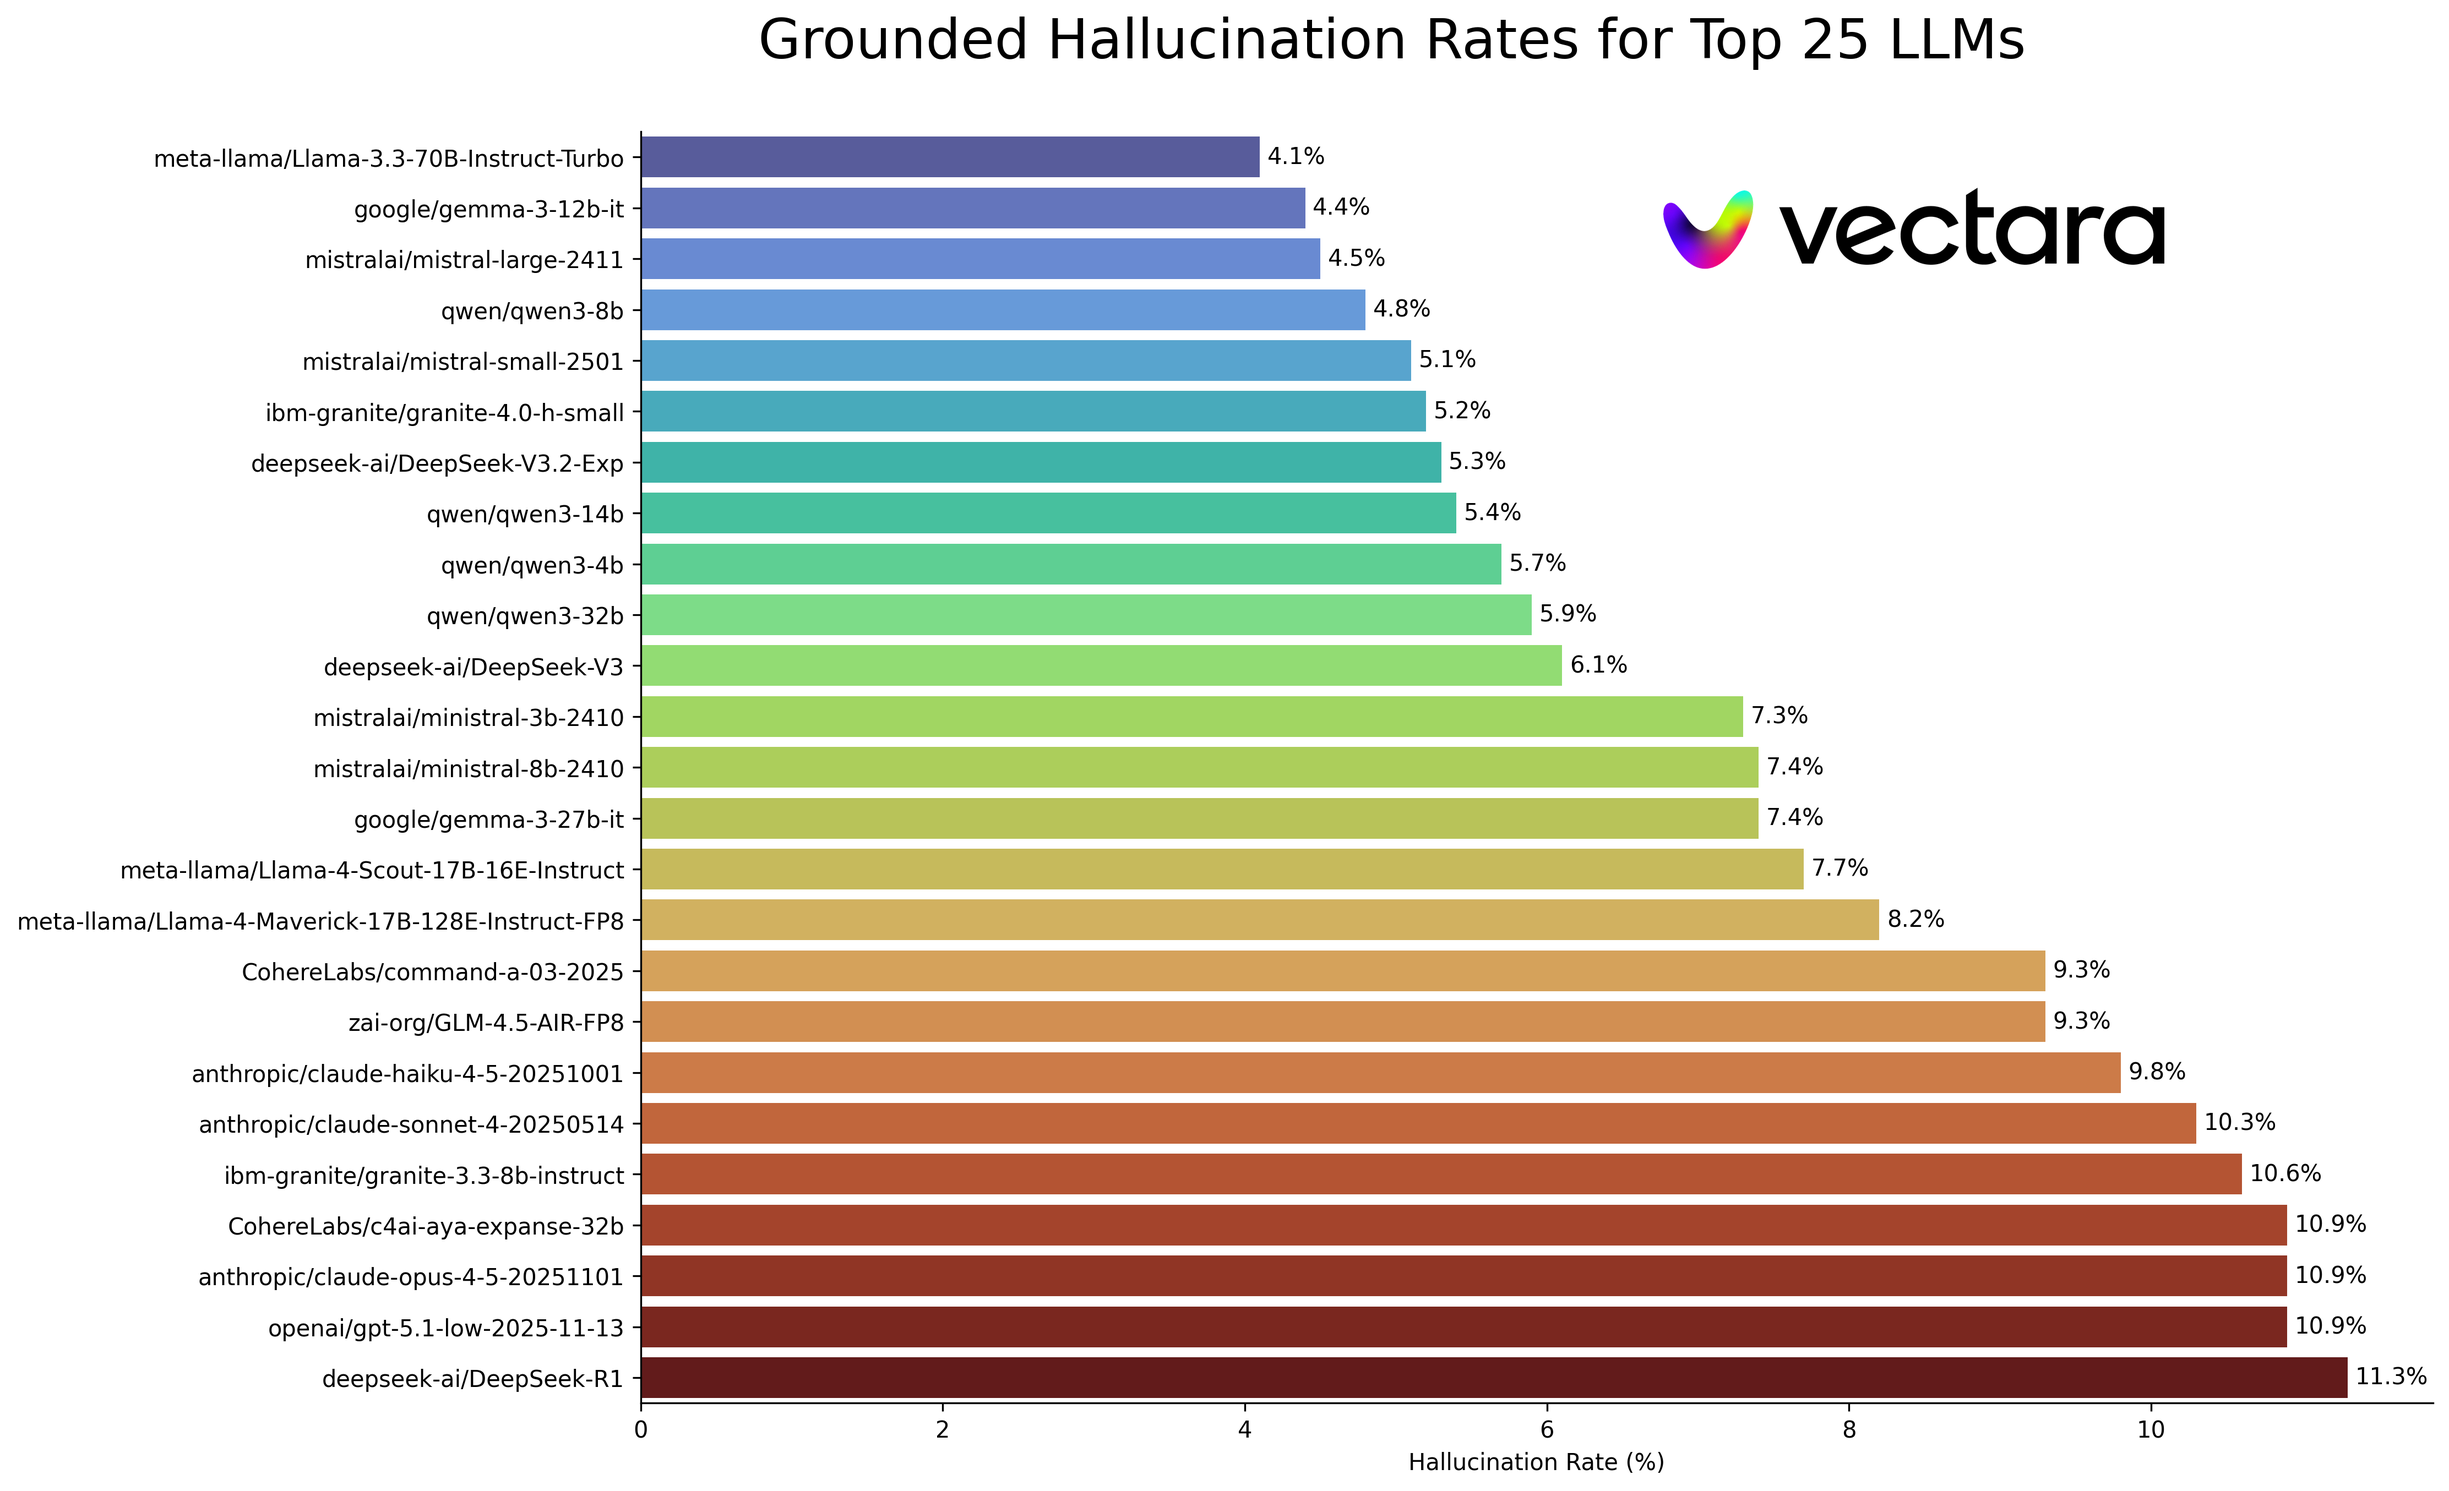
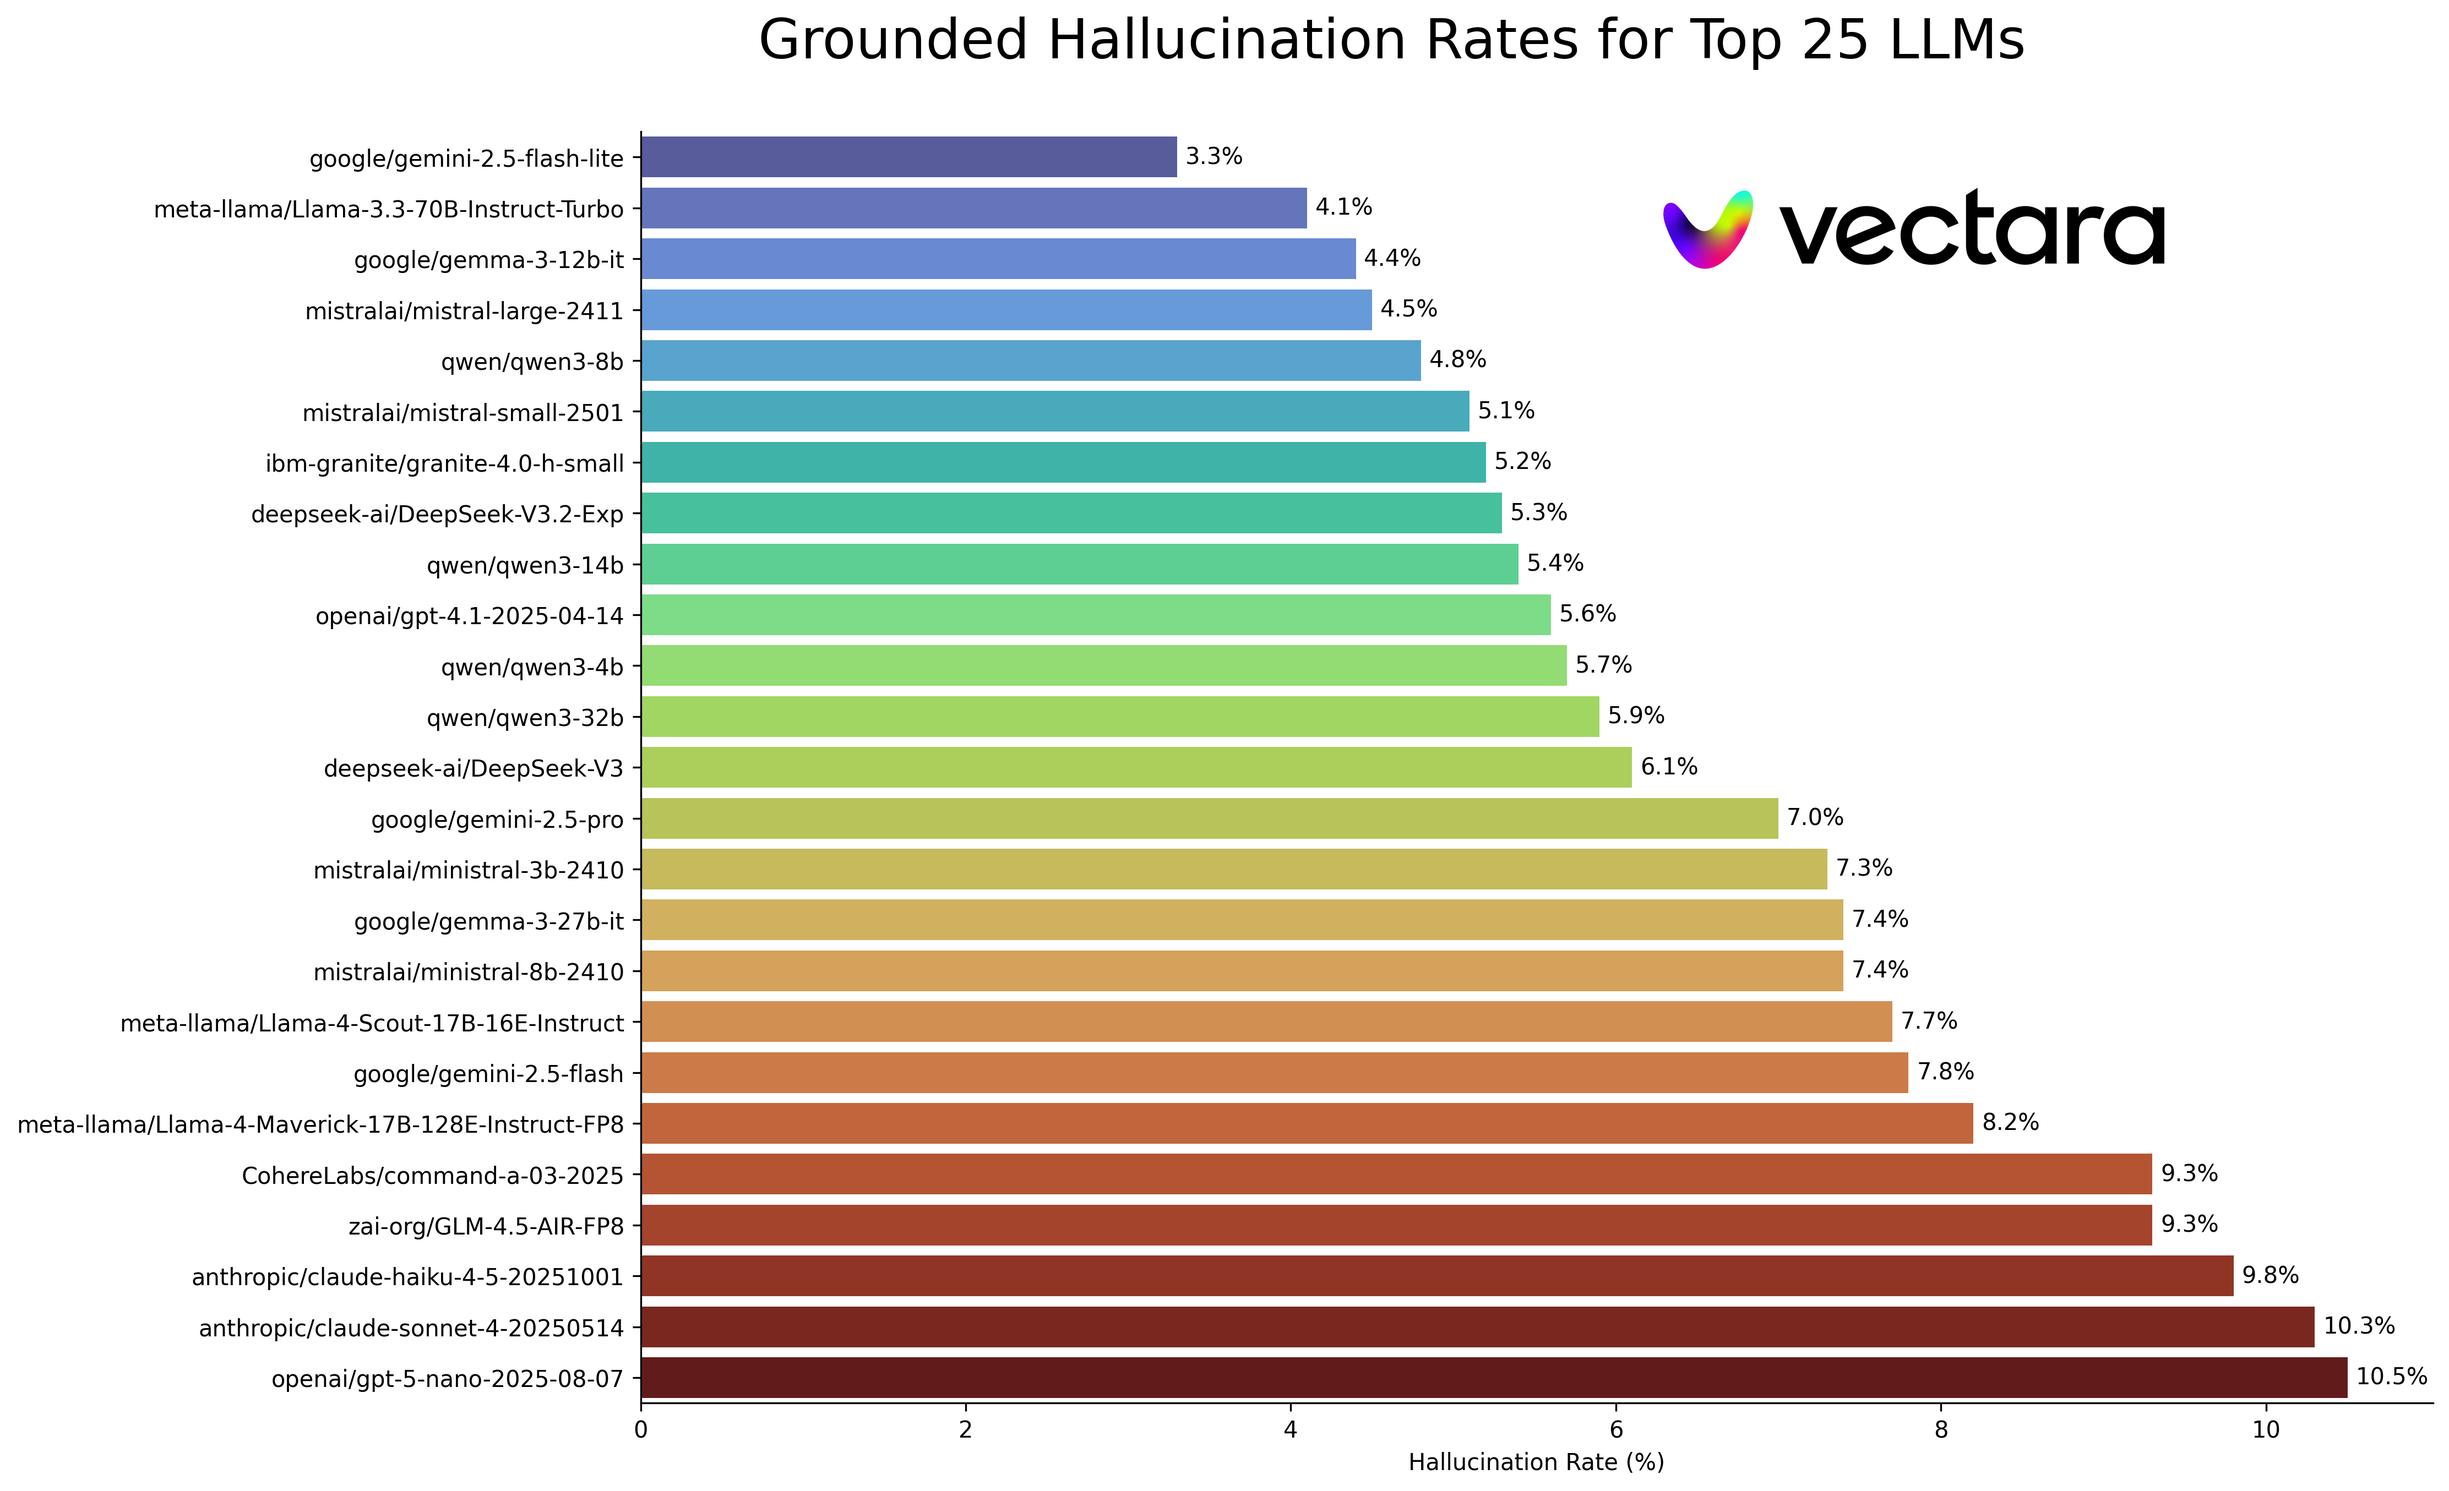
Auto-update leaderboard and plot

diff --git a/README.md b/README.md
@@ -26,6 +26,7 @@ Last updated on November 25, 2025
 
 |Model|Hallucination Rate|Factual Consistency Rate|Answer Rate|Average Summary Length (Words)|
 |----|----:|----:|----:|----:|
+|google/gemini-2.5-flash-lite|3.3 %|96.7 %|99.5 %|95.7|
 |microsoft/Phi-4|3.7 %|96.3 %|80.7 %|120.9|
 |meta-llama/Llama-3.3-70B-Instruct-Turbo|4.1 %|95.9 %|99.5 %|64.6|
 |snowflake/snowflake-arctic-instruct|4.3 %|95.7 %|62.7 %|81.4|
@@ -37,35 +38,52 @@ Last updated on November 25, 2025
 |deepseek-ai/DeepSeek-V3.2-Exp|5.3 %|94.7 %|96.6 %|64.6|
 |qwen/qwen3-14b|5.4 %|94.6 %|99.9 %|111.1|
 |deepseek-ai/DeepSeek-V3.1|5.5 %|94.5 %|94.5 %|63.7|
+|openai/gpt-4.1-2025-04-14|5.6 %|94.4 %|99.9 %|91.7|
 |qwen/qwen3-4b|5.7 %|94.3 %|99.9 %|104.7|
+|xai-org/grok-3|5.8 %|94.2 %|93.0 %|95.9|
 |qwen/qwen3-32b|5.9 %|94.1 %|99.9 %|115.8|
 |deepseek-ai/DeepSeek-V3|6.1 %|93.9 %|97.5 %|81.7|
+|google/gemma-3-4b-it|6.4 %|93.6 %|67.3 %|77.4|
 |CohereLabs/command-r-plus-08-2024|6.9 %|93.1 %|95.0 %|91.5|
+|google/gemini-2.5-pro|7.0 %|93.0 %|99.1 %|106.4|
 |mistralai/ministral-3b-2410|7.3 %|92.7 %|99.9 %|167.9|
-|mistralai/ministral-8b-2410|7.4 %|92.6 %|99.9 %|196.0|
 |google/gemma-3-27b-it|7.4 %|92.6 %|98.8 %|96.4|
+|mistralai/ministral-8b-2410|7.4 %|92.6 %|99.9 %|196.0|
 |meta-llama/Llama-4-Scout-17B-16E-Instruct|7.7 %|92.3 %|99.0 %|137.3|
+|google/gemini-2.5-flash|7.8 %|92.2 %|99.0 %|101.5|
 |meta-llama/Llama-4-Maverick-17B-128E-Instruct-FP8|8.2 %|91.8 %|100.0 %|106.0|
 |CohereLabs/command-a-03-2025|9.3 %|90.7 %|97.6 %|101.7|
-|qwen/qwen3-next-80b-a3b-thinking|9.3 %|90.7 %|94.4 %|70.9|
 |zai-org/GLM-4.5-AIR-FP8|9.3 %|90.7 %|98.1 %|70.6|
-|CohereLabs/c4ai-aya-expanse-8b|9.5 %|90.5 %|77.5 %|88.2|
+|qwen/qwen3-next-80b-a3b-thinking|9.3 %|90.7 %|94.4 %|70.9|
 |zai-org/GLM-4.6|9.5 %|90.5 %|94.5 %|77.2|
+|CohereLabs/c4ai-aya-expanse-8b|9.5 %|90.5 %|77.5 %|88.2|
+|openai/gpt-4o-2024-08-06|9.6 %|90.4 %|93.8 %|86.6|
 |anthropic/claude-haiku-4-5-20251001|9.8 %|90.2 %|99.5 %|115.1|
 |anthropic/claude-sonnet-4-20250514|10.3 %|89.7 %|98.6 %|145.8|
+|openai/gpt-5-nano-2025-08-07|10.5 %|89.5 %|100.0 %|105.7|
 |ibm-granite/granite-3.3-8b-instruct|10.6 %|89.4 %|100.0 %|131.4|
-|CohereLabs/c4ai-aya-expanse-32b|10.9 %|89.1 %|99.8 %|112.7|
 |anthropic/claude-opus-4-5-20251101|10.9 %|89.1 %|98.7 %|114.5|
 |openai/gpt-5.1-low-2025-11-13|10.9 %|89.1 %|100.0 %|165.5|
+|CohereLabs/c4ai-aya-expanse-32b|10.9 %|89.1 %|99.8 %|112.7|
 |deepseek-ai/DeepSeek-R1|11.3 %|88.7 %|97.0 %|93.5|
 |anthropic/claude-opus-4-1-20250805|11.8 %|88.2 %|92.4 %|129.1|
-|anthropic/claude-sonnet-4-5-20250929|12.0 %|88.0 %|95.6 %|127.8|
 |anthropic/claude-opus-4-20250514|12.0 %|88.0 %|91.0 %|123.2|
+|anthropic/claude-sonnet-4-5-20250929|12.0 %|88.0 %|95.6 %|127.8|
 |openai/gpt-5.1-high-2025-11-13|12.1 %|87.9 %|100.0 %|254.4|
+|openai/gpt-5-mini-2025-08-07|12.9 %|87.1 %|99.9 %|169.7|
+|google/gemini-3-pro-preview|13.6 %|86.4 %|99.4 %|101.9|
+|openai/gpt-oss-120b|14.2 %|85.8 %|99.9 %|135.2|
+|openai/gpt-5-minimal-2025-08-07|14.7 %|85.3 %|99.9 %|109.7|
+|openai/gpt-5-high-2025-08-07|15.1 %|84.9 %|99.9 %|162.7|
 |xai-org/grok-4-1-fast-non-reasoning|17.8 %|82.2 %|98.5 %|87.5|
 |moonshotai/Kimi-K2-Instruct-0905|17.9 %|82.1 %|98.6 %|59.2|
+|openai/o4-mini-low-2025-04-16|18.6 %|81.4 %|98.7 %|130.9|
+|openai/o4-mini-high-2025-04-16|18.6 %|81.4 %|99.2 %|127.7|
 |xai-org/grok-4-1-fast-reasoning|19.2 %|80.8 %|99.7 %|99.5|
+|xai-org/grok-4-fast-non-reasoning|19.7 %|80.3 %|99.2 %|141.9|
+|xai-org/grok-4-fast-reasoning|20.2 %|79.8 %|99.5 %|173.9|
 |mistralai/mistral-medium-2508|22.7 %|77.3 %|99.7 %|142.9|
+|openai/o3-pro|23.3 %|76.7 %|100.0 %|127.4|
 |microsoft/Phi-4-mini-instruct|23.5 %|76.5 %|92.5 %|420.2|
 
 
